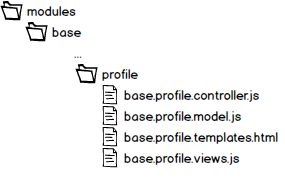
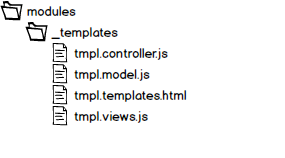
[OSD-67] Updating extension documentation.

Changed region(s): [[0.0, 0.0, 0.9825, 0.9367]]

diff --git a/public/modules/_templates/tmpl.controller.js b/public/modules/_templates/tmpl.controller.js
@@ -1,7 +1,7 @@
 /**
- * Copyright Elastic Path Software 2013.
+ * Copyright Elastic Path Software 2014.
  *
- * Example controller template to creating a new module on Storefront.
+ * Example controller template to create a new Storefront module .
  */
 define(function (require) {
     var ep = require('ep');                 // import global app functions and variables
@@ -10,22 +10,36 @@ define(function (require) {
 
     var pace = require('pace');             // import activity indicator function
 
-    // import model, view and template
+    // import the module's model, view and template
     var Model = require('modules/_template/tmpl.models');
     var View = require('modules/_template/tmpl.views');
     var template = require('text!modules/base/_template/base.tmpl.templates.html');
 
-    // Inject the address template into TemplateContainer for the views to reference
+    // Inject the template into TemplateContainer for the module's views to reference
     $('#TemplateContainer').append(template);
 
-    // Creates namespace to template to reference model and viewHelpers
+    // Create a namespace for the template to reference the model and viewHelpers
     _.templateSettings.variable = 'E';
 
     /**
      * Renders the DefaultLayout of template module, and fetch model from backend;
-     * upon model fetch success, renders the views in destinated regions.
+     * upon model fetch success, renders the views in the designated regions.
      */
     var defaultView = function(){
+
+        //instantiate the modules View and Model
+        var defaultLayout = new View.DefaultLayout();
+        var templateModel = new Model.TmplModel();
+
+
+        templateModel.fetch({
+            success: function (response) {
+
+            },
+            error: function (response) {
+
+            }
+        });
 
 
     };

diff --git a/public/modules/_templates/tmpl.models.js b/public/modules/_templates/tmpl.models.js
@@ -1,9 +1,5 @@
 /**
- * Copyright Elastic Path Software 2013.
-
- * User: sbrookes
- * Date: 04/04/13
- * Time: 9:16 AM
+ * Copyright Elastic Path Software 2014.
  *
  */
 define(function (require) {

diff --git a/public/modules/_templates/tmpl.views.js b/public/modules/_templates/tmpl.views.js
@@ -1,9 +1,5 @@
 /**
- * Copyright Elastic Path Software 2013.
-
- * User: sbrookes
- * Date: 04/04/13
- * Time: 9:16 AM
+ * Copyright Elastic Path Software 2014.
  *
  */
 define(function (require) {

diff --git a/documentation/extending.md b/documentation/extending.md
@@ -41,45 +41,21 @@ Module Basics
 ---------------------
 
 Overview of a module's components:
-The descriptions below use the profile module as an example.
+The descriptions below use our template module to describe the basic components of a standard Storefront module.
 
 ![profile](https://github.elasticpath.net/cortex/ui-storefront/raw/master/documentation/img/profileModule.png)
 
-**base.profile.controller.js**
+**tmpl.controller.js**
 
 lorem ipsum lorem ipsumlorem ipsumlorem ipsumlorem ipsum
 
 ```js
- define(function (require) {
-     var ep = require('ep');
-     var EventBus = require('eventbus');
-     var Mediator = require('mediator');
-     var Backbone = require('backbone');
 
-     var Model = require('profile.models');
-     var View = require('profile.views');
-     var template = require('text!modules/base/profile/base.profile.templates.html');
-
-     $('#TemplateContainer').append(template);
-
-     _.templateSettings.variable = 'E';
-
-     /**
-      * Renders the DefaultLayout of profile module, and fetch model from backend;
-      * upon model fetch success, renders profile views in destinated regions.
-      * @returns {View.DefaultLayout}
-      */
-     var defaultView = function () {
-
-       // ensure the user is authenticated befor continuing to process the request
-       if (ep.app.isUserLoggedIn()) {
-         var defaultLayout = new View.DefaultLayout();
-         var profileModel = new Model.ProfileModel();
 
 
 ```
 
-**base.profile.models.js**
+**tmpl.models.js**
 
 lorem ipsum
 
@@ -87,18 +63,62 @@ lorem ipsum
 
 lorem ipsum
 
-**base.profile.templates.html**
+**tmpl.templates.html**
 
 lorem ipsum
 
 
 Tutorial: Creating a New Module
 ---------------------
-This tutorial will walk you through the process of creating a simple HTML5 Reference storefront extension, and introduce the
+This tutorial will walk you through the process of creating a HTML5 Reference storefront extension, and introduce the
 core concepts that JavaScript extension developers need to know along the way.
 
-We'll be creating....
 
-What are we going to do?
-Why are we doing it?
-How do we do it? (step-by-step)
+<ol>
+<li>Copy the Template</li>
+<li>Define your module so RequireJS can add it as a dependency
+
+<code>public/main.js</code>
+```js
+ define(function (require) {
+     var ep = require('ep');
+     var EventBus = require('eventbus');
+
+```
+
+</li>
+<li>Add it to the router
+
+<code>public/router.js</code>
+```js
+var router = Marionette.AppRouter.extend({
+      appRoutes:{
+        '': 'index',
+        'home': 'index',
+        'category' : 'category',
+        'category/:href' : 'category',
+        'category/:href/:pagehref' : 'category',
+        'search' : 'search',
+
+```
+
+<li>You need to load your module views into this file so the application can understand where and how to load your views.
+
+<code>public/loadRegionContentEvents.js</code>
+```js
+ var loadRegionContentEvents = {
+    appHeader: function() {
+      EventBus.trigger('layout.loadRegionContentRequest',{
+        region:'appHeaderRegion',
+        module:'appheader',
+        view:'AppHeaderView'
+      });
+    },
+
+```
+</li>
+
+</li>
+</ol>
+*
+* Wire in
